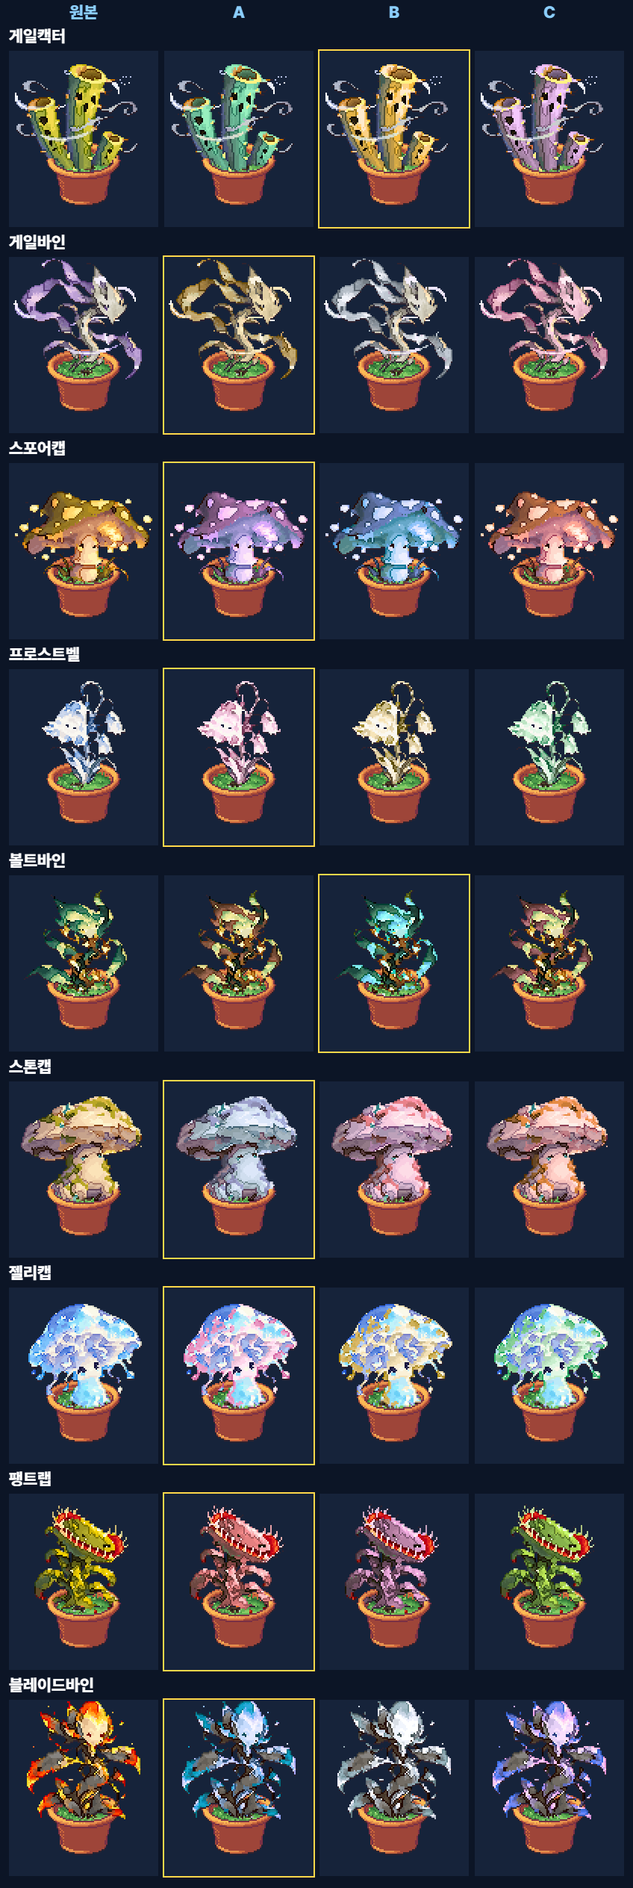
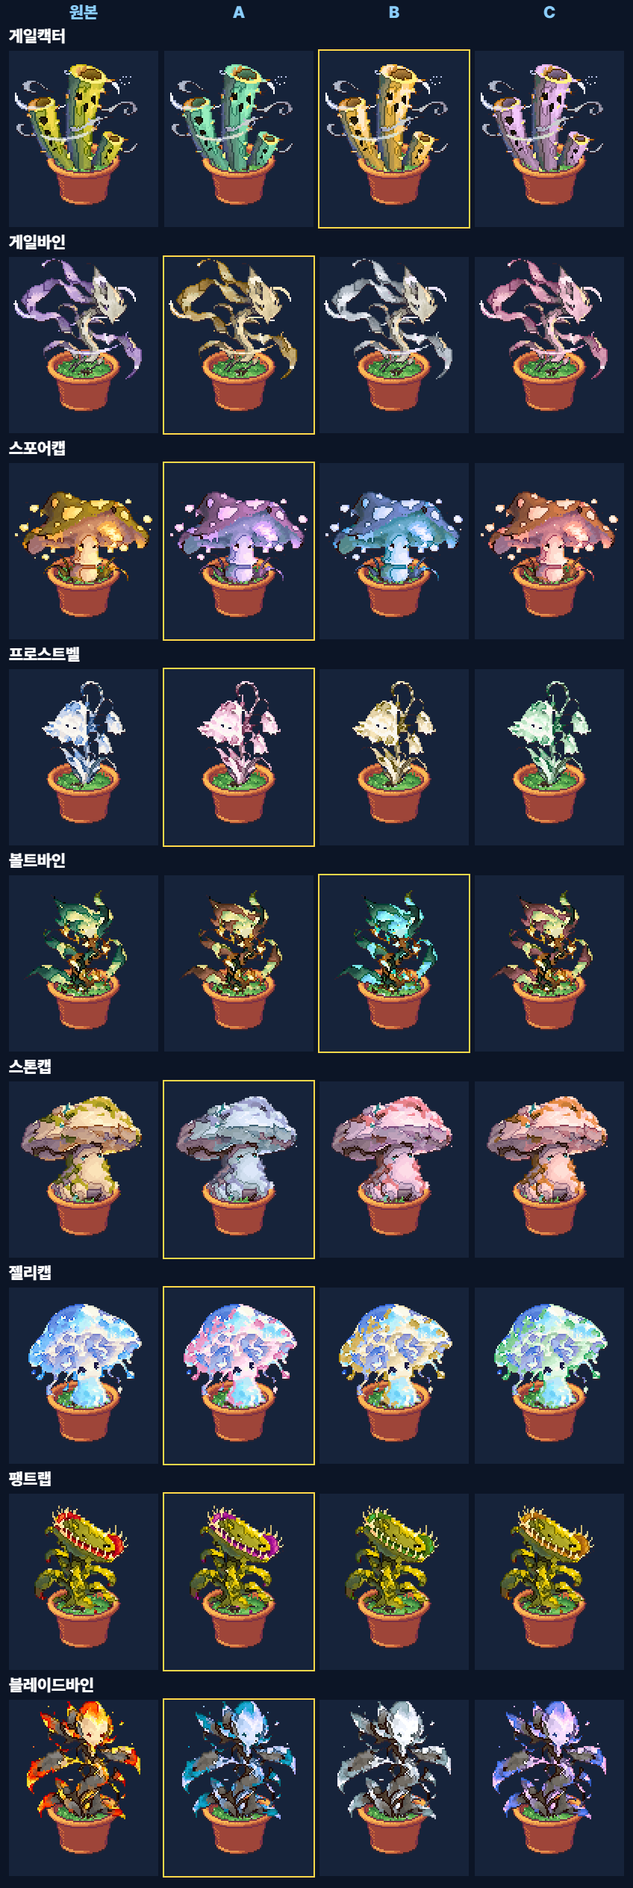
feat: 색 변종 열한 종을 한 부분만 · 차분하게 · 초롱바인 등불 빨강이 위로
- 엠버캑터 불꽃 · 가이아록 결정 · 팽트랩 입 · 드레이크캑터 배 · 탈바인 탈 · 초롱바인 서리 · 글라디캑터 깃 · 갑옷 · 바이킹캡 투구 · 갑옷 · 마이너캡 갓 · 볼케이노캡 바위 · 용암 · 단델에어로 목도리만
- 색으로 못 가르는 부분은 위치 조건 box(장마다 식물 둘레 비율 · out) · 최대 채도 cx
- 초롱바인 원래 그림: 등불 천 파랑 ↔ 빨강(fix_lantern.mjs — 성체 · 어린 · 자람 · 작은 그림, 다시 돌려도 됨)
- 시험 tools/test/shiny.mjs 14

Changed region(s): [[0.3066, 0.7812, 0.4599, 0.875], [0.5519, 0.7812, 0.7052, 0.875], [0.7972, 0.7812, 0.9505, 0.875]]

diff --git a/v2/src/art/shinyRules.js b/v2/src/art/shinyRules.js
@@ -8,8 +8,8 @@ export const SHINY_RULES = {
   flower_wind: { pick: 'A', A: [{ h: [275,340], to: 235 }], B: [{ h: [275,340], to: 350, ck: 0.55, dl: 0.08 }], C: [{ h: [275,340], to: 90, dl: 0.17 }] },   // 특징 285~335° 40% · 특징 345~25° 14% · 손 규칙 ABC
   spark: { pick: 'A', A: [{ h: [75,115], to: 255, ck: 0.45, l: [0.6,1.01] }], B: [{ h: [75,115], to: 350, ck: 0.9, l: [0.6,1.01] }], C: [{ h: [75,115], to: 48, l: [0.6,1.01] }] },   // 특징 75~115° 70% · 손 규칙 ABC
   vine_water: { pick: 'A', A: [{ h: [95,182], to: 88, hs: 0.3, dl: 0.04 }], B: [{ h: [95,182], to: 40, hs: 0.3 }], C: [{ h: [195,265], to: 250, ck: 0.2, dl: 0.15 }] },   // 잎 155~175° 30% · 특징 205~265° 30% · 손 규칙 ABC
-  cactus_fire: { pick: 'A', A: [{ h: [0,50], to: 262, ck: 0.85 }], B: [{ h: [0,50], to: 305, ck: 0.85 }], C: [{ h: [0,50], to: 80, dl: 0.17 }] },   // 특징 5~45° 85% · 손 규칙 ABC
-  gaia: { pick: 'A', A: [{ h: [35,115], to: 250, ck: 0.45 }], B: [{ h: [35,115], to: 355, ck: 0.7 }], C: [{ h: [35,115], to: 160, ck: 0.6 }] },   // 특징 35~115° 90% · 손 규칙 ABC
+  cactus_fire: { pick: 'A', A: [{ h: [30,110], to: 250, l: [0.55,1.01], c: 0.08, hs: 0.4, box: [0.22,0.32,0.78,1], out: true, ck: 0.8 }], B: [{ h: [30,110], to: 85, l: [0.55,1.01], c: 0.08, hs: 0.4, box: [0.22,0.32,0.78,1], out: true, ck: 0.3, dl: 0.08 }], C: [{ h: [30,110], to: 300, l: [0.55,1.01], c: 0.08, hs: 0.4, box: [0.22,0.32,0.78,1], out: true, ck: 0.8 }] },   // 특징 5~45° 85% · 손 규칙 ABC
+  gaia: { pick: 'A', A: [{ h: [160,220], to: 300, c: 0.04 }], B: [{ h: [160,220], to: 355, c: 0.04 }], C: [{ h: [160,220], to: 88, c: 0.04, dl: 0.12 }] },   // 특징 35~115° 90% · 손 규칙 ABC
   flower_fire: { pick: 'A', A: [{ h: [5,45], to: 262 }], B: [{ h: [5,45], to: 305 }], C: [{ h: [5,45], to: 92, dl: 0.17 }] },   // 특징 15~35° 54% · 특징 25~105° 44% · 손 규칙 ABC
   cactus_wind: { pick: 'B', A: [{ h: [70,175], to: 168, hs: 0.4, l: [0.24,0.9], ck: 0.7 }], B: [{ h: [70,175], to: 88, hs: 0.4, l: [0.24,0.9], dl: 0.06 }], C: [{ h: [70,175], to: 330, hs: 0.4, l: [0.24,0.9], ck: 0.55 }] },   // 특징 85~125° 51% · 손 규칙 ABC
   vine_wind: { pick: 'A', A: [{ h: [295,325], to: 88, ck: 1 }, { tint: [88,0.06], l: [0.5,0.97], c: 0.05 }], B: [{ h: [275,335], to: 250, ck: 0.2, dl: 0.08 }], C: [{ h: [295,325], to: 355, ck: 1 }, { tint: [355,0.06], l: [0.5,0.97], c: 0.05 }] },   // 특징 295~325° 42% · 흰 몸 40% · 손 규칙 B
@@ -18,24 +18,24 @@ export const SHINY_RULES = {
   volt_vine: { pick: 'B', A: [{ h: [145,192], to: 48, hs: 0.5 }], B: [{ h: [85,140], to: 205, l: [0.68,1.01] }], C: [{ h: [145,192], to: 20 }] },   // 특징 155~185° 37% · 특징 85~145° 38% · 손 규칙 ABC
   stone_cap: { pick: 'A', A: [{ h: [35,115], to: 255, ck: 0.45 }], B: [{ h: [35,115], to: 350, ck: 0.9 }], C: [{ h: [35,115], to: 30 }] },   // 특징 35~115° 77% · 손 규칙 C
   jelly_cap: { pick: 'A', A: [{ h: [235,255], to: 345, ck: 1 }, { tint: [345,0.06], l: [0.5,0.97], c: 0.05 }], B: [{ h: [235,255], to: 88, ck: 1 }, { tint: [88,0.06], l: [0.5,0.97], c: 0.05 }], C: [{ h: [235,255], to: 150, ck: 1 }, { tint: [150,0.06], l: [0.5,0.97], c: 0.05 }] },   // 특징 235~255° 16% · 특징 255~285° 25% · 흰 몸 39%
-  fang_trap: { pick: 'A', A: [{ h: [70,140], to: 20, hs: 0.5, ck: 0.9 }], B: [{ h: [70,140], to: 340, hs: 0.5, ck: 0.6, dl: -0.03 }], C: [{ h: [70,140], to: 128, hs: 0.5 }] },   // 잎 85~135° 77% · 특징 15~35° 12% · 손 규칙 ABC
+  fang_trap: { pick: 'A', A: [{ h: [0,45], to: 330, l: [0.25,0.85], c: 0.08, dl: -0.04 }], B: [{ h: [0,45], to: 125, l: [0.25,0.85], c: 0.08 }], C: [{ h: [0,45], to: 60, l: [0.25,0.85], c: 0.08, dl: 0.05 }] },   // 잎 85~135° 77% · 특징 15~35° 12% · 손 규칙 ABC
   blade_vine: { pick: 'A', A: [{ h: [10,120], to: 250, ck: 0.8 }], B: [{ h: [10,120], to: 250, ck: 0.15, dl: 0.08 }], C: [{ h: [10,120], to: 300, ck: 0.8 }] },   // 특징 15~115° 71% · 손 규칙 ABC
   toxi_cactus: { pick: 'A', A: [{ h: [300,345], to: 92, dl: 0.08 }], B: [{ h: [300,345], to: 0, ck: 0.2, dl: 0.15 }], C: [{ h: [80,160], to: 168, hs: 0.5, ck: 0.7 }] },   // 잎 95~145° 46% · 특징 315~335° 8% · 손 규칙 ABC
   draco_fruit: { pick: 'A', A: [{ h: [195,235], to: 345, ck: 1 }, { tint: [345,0.06], l: [0.5,0.97], c: 0.05 }], B: [{ h: [170,240], to: 290 }, { tint: [290,0.06], l: [0.5,0.97], c: 0.05 }], C: [{ h: [170,240], to: 150 }, { tint: [150,0.05], l: [0.5,0.97], c: 0.05 }] },   // 특징 195~235° 36% · 특징 175~195° 9% · 흰 몸 47% · 손 규칙 BC
   ember_cap: { pick: 'A', A: [{ h: [15,55], to: 262, ck: 1 }], B: [{ h: [15,55], to: 305, ck: 1 }], C: [{ h: [15,55], to: 88, ck: 1 }] },   // 특징 15~55° 57% · 특징 45~115° 41%
-  drake_cactus: { pick: 'A', A: [{ h: [15,55], to: 262, ck: 1 }], B: [{ h: [15,55], to: 305, ck: 1 }], C: [{ h: [5,60], to: 160 }] },   // 특징 15~55° 80% · 손 규칙 C
+  drake_cactus: { pick: 'A', A: [{ h: [35,75], to: 70, l: [0.5,1.01], c: 0.08, ck: 0.2, dl: 0.12 }], B: [{ h: [35,75], to: 230, l: [0.5,1.01], c: 0.08, ck: 0.4, dl: 0.1 }], C: [{ h: [35,75], to: 180, l: [0.5,1.01], c: 0.08, ck: 0.7 }] },   // 특징 15~55° 80% · 손 규칙 ABC
   gat_cap: { pick: 'A', A: [{ tint: [25,0.12], l: [0.24,0.52], c: 0.05 }], B: [{ tint: [258,0.12], l: [0.24,0.52], c: 0.05 }], C: [{ tint: [305,0.12], l: [0.24,0.52], c: 0.05 }] },   // 특징 45~95° 26% · 잎 85~125° 12% · 손 규칙 ABC
-  mask_vine: { pick: 'B', A: [{ h: [50,110], to: 80, ck: 0.25, dl: -0.06 }], B: [{ h: [50,110], to: 25, ck: 0.9 }], C: [{ h: [50,110], to: 92, dl: 0.06 }] },   // 특징 55~105° 79% · 손 규칙 ABC
+  mask_vine: { pick: 'A', A: [{ h: [40,95], to: 67, l: [0.6,1.01], c: 0.03, ck: 0.15, dl: 0.12 }], B: [{ h: [40,95], to: 20, l: [0.6,1.01], c: 0.03, ck: 0.9 }], C: [{ h: [40,95], to: 67, l: [0.6,1.01], c: 0.03, ck: 0.3, dl: -0.22 }] },   // 특징 55~105° 79% · 손 규칙 ABC
   drum_cactus: { pick: 'A', A: [{ h: [55,115], to: 25, l: [0.55,1.01] }], B: [{ h: [55,115], to: 250, ck: 0.2, dl: 0.1, l: [0.55,1.01] }], C: [{ h: [55,115], to: 205, ck: 0.8, l: [0.55,1.01] }] },   // 특징 55~115° 41% · 잎 115~155° 24% · 손 규칙 ABC
-  lantern_vine: { pick: 'A', A: [{ h: [255,275], to: 345, ck: 1 }, { tint: [345,0.06], l: [0.5,0.97], c: 0.05 }], B: [{ h: [255,275], to: 88, ck: 1 }, { tint: [88,0.06], l: [0.5,0.97], c: 0.05 }], C: [{ h: [255,275], to: 150, ck: 1 }, { tint: [150,0.06], l: [0.5,0.97], c: 0.05 }] },   // 특징 255~275° 42% · 특징 5~35° 12% · 흰 몸 38%
+  lantern_vine: { pick: 'A', A: [{ tint: [85,0.05], l: [0.68,0.98], c: 0.07 }], B: [{ tint: [305,0.05], l: [0.68,0.98], c: 0.07 }], C: [{ h: [45,100], to: 72, ck: 0.15, dl: 0.06, l: [0.35,0.9], c: 0.06 }] },   // 특징 245~275° 40% · 특징 5~35° 16% · 흰 몸 38% · 손 규칙 ABC
   jar_cactus: { pick: 'B', A: [{ h: [150,230], to: 25, ck: 1.4 }], B: [{ h: [150,230], to: 220, ck: 0.25, dl: 0.25 }], C: [{ h: [150,230], to: 300, ck: 1.3 }] },   // 특징 35~65° 17% · 특징 195~235° 26% · 손 규칙 ABC
   goblin_cap: { pick: 'B', A: [{ h: [25,105], to: 300, ck: 0.9 }], B: [{ h: [25,105], to: 25 }], C: [{ h: [25,105], to: 65, ck: 0.25, dl: 0.08 }] },   // 특징 25~105° 97% · 손 규칙 BC
   crown_cap: { pick: 'A', A: [{ h: [255,295], to: 88, ck: 1 }, { tint: [88,0.06], l: [0.5,0.97], c: 0.05 }], B: [{ h: [255,295], to: 190, ck: 1 }, { tint: [190,0.06], l: [0.5,0.97], c: 0.05 }], C: [{ h: [255,295], to: 355, ck: 1 }, { tint: [355,0.06], l: [0.5,0.97], c: 0.05 }] },   // 특징 255~295° 39% · 흰 몸 58%
   frost_drake: { pick: 'A', A: [{ h: [195,265], to: 345, ck: 1 }], B: [{ h: [165,260], to: 300 }], C: [{ h: [195,265], to: 150, ck: 1 }] },   // 특징 195~265° 44% · 특징 165~185° 9% · 손 규칙 B
-  gladi_cactus: { pick: 'A', A: [{ h: [25,75], to: 300, ck: 0.9 }], B: [{ h: [25,75], to: 235, ck: 0.9 }], C: [{ h: [25,75], to: 92, dl: 0.08 }] },   // 잎 85~105° 35% · 특징 25~75° 55% · 손 규칙 C
+  gladi_cactus: { pick: 'A', A: [{ h: [0,45], to: 255, l: [0.25,0.62], c: 0.07, box: [0,0,1,0.4] }], B: [{ h: [0,45], to: 22, l: [0.25,0.62], c: 0.07, box: [0,0,1,0.4], ck: 0.12, dl: 0.25 }], C: [{ h: [45,85], to: 65, l: [0.35,0.8], c: 0.05, ck: 0.15, dl: 0.06 }] },   // 잎 85~105° 35% · 특징 25~75° 55% · 손 규칙 ABC
   jangseung_cactus: { pick: 'B', A: [{ h: [35,95], to: 65, ck: 0.25, dl: -0.08 }], B: [{ h: [35,95], to: 25 }], C: [{ h: [35,95], to: 65, ck: 0.25, dl: 0.12 }] },   // 잎 105~125° 37% · 특징 35~95° 48% · 손 규칙 ABC
   astro_cap: { pick: 'A', A: [{ h: [245,275], to: 345, ck: 1 }, { tint: [345,0.06], l: [0.5,0.97], c: 0.05 }], B: [{ h: [245,275], to: 88, ck: 1 }, { tint: [88,0.06], l: [0.5,0.97], c: 0.05 }], C: [{ h: [245,275], to: 150, ck: 1 }, { tint: [150,0.06], l: [0.5,0.97], c: 0.05 }] },   // 특징 245~275° 23% · 흰 몸 70%
-  viking_cap: { pick: 'B', A: [{ h: [245,275], to: 345, ck: 1 }, { tint: [345,0.06], l: [0.5,0.97], c: 0.05 }], B: [{ h: [245,275], to: 88, ck: 1 }, { tint: [88,0.06], l: [0.5,0.97], c: 0.05 }], C: [{ h: [245,275], to: 150, ck: 1 }, { tint: [150,0.06], l: [0.5,0.97], c: 0.05 }] },   // 특징 245~275° 12% · 흰 몸 72%
+  viking_cap: { pick: 'A', A: [{ tint: [65,0.09], l: [0.3,0.8], c: 0.05 }], B: [{ tint: [88,0.12], l: [0.3,0.8], c: 0.05, dl: 0.07 }], C: [{ tint: [250,0.04], l: [0.3,0.8], c: 0.05, dl: -0.05 }] },   // 특징 245~275° 12% · 흰 몸 72% · 손 규칙 ABC
   hyunmu_cap: { pick: 'A', A: [{ h: [205,245], to: 155, ck: 1.4 }], B: [{ h: [205,245], to: 300, ck: 1.4 }], C: [{ h: [205,245], to: 25, ck: 1.4 }] },   // 특징 215~245° 35% · 특징 55~85° 11% · 손 규칙 ABC
   gumiho_bloom: { pick: 'A', A: [{ h: [15,95], to: 55, ck: 0.12, dl: 0.15 }], B: [{ h: [15,95], to: 85, dl: 0.05, ck: 0.9 }], C: [{ h: [15,95], to: 300, ck: 0.8 }] },   // 특징 15~95° 91% · 손 규칙 ABC
   wizard_bell: { pick: 'A', A: [{ h: [272,335], to: 192 }], B: [{ h: [272,335], to: 352 }], C: [{ h: [272,335], to: 245 }] },   // 특징 65~95° 26% · 특징 275~335° 41% · 손 규칙 ABC
@@ -43,8 +43,8 @@ export const SHINY_RULES = {
   diver_vine: { pick: 'A', A: [{ h: [152,198], to: 350, ck: 1.2 }], B: [{ h: [152,198], to: 255, ck: 1.1 }], C: [{ h: [152,198], to: 300, ck: 1.1 }] },   // 잎 135~195° 54% · 잎 95~135° 14% · 손 규칙 ABC
   pirate_cactus: { pick: 'A', A: [{ h: [222,262], to: 25, ck: 1.2 }], B: [{ h: [222,262], to: 300 }], C: [{ h: [222,262], to: 242, ck: 0.15, dl: -0.08 }] },   // 잎 85~145° 54% · 특징 215~265° 21% · 손 규칙 ABC
   ranger_vine: { pick: 'A', A: [{ h: [70,175], to: 88, hs: 0.4, l: [0.24,0.9], dl: 0.04 }], B: [{ h: [70,175], to: 35, hs: 0.4, l: [0.24,0.9] }], C: [{ h: [70,175], to: 150, hs: 0.4, l: [0.24,0.9], dl: -0.06, ck: 0.9 }] },   // 잎 95~145° 89% · 손 규칙 ABC
-  miner_cap: { pick: 'A', A: [{ h: [45,85], to: 300, ck: 0.9 }], B: [{ h: [45,85], to: 235, ck: 0.9 }], C: [{ h: [45,85], to: 355, ck: 1 }] },   // 특징 45~85° 82% · 특징 25~45° 11%
-  volcano_cap: { pick: 'B', A: [{ h: [25,65], to: 300, ck: 0.9 }], B: [{ h: [20,70], to: 240 }], C: [{ h: [20,70], to: 45, ck: 0.2, dl: -0.08 }] },   // 특징 25~65° 83% · 손 규칙 BC
-  dandel_aero: { pick: 'A', A: [{ h: [65,125], to: 255, ck: 0.45 }, { tint: [255,0.06], l: [0.5,0.97], c: 0.05 }], B: [{ h: [65,125], to: 350, ck: 0.9 }, { tint: [350,0.06], l: [0.5,0.97], c: 0.05 }], C: [{ h: [65,125], to: 205, ck: 0.9 }, { tint: [205,0.06], l: [0.5,0.97], c: 0.05 }] },   // 특징 65~125° 57% · 흰 몸 36%
+  miner_cap: { pick: 'A', A: [{ h: [20,100], to: 25, c: 0.04, box: [0,0,1,0.47], ck: 1.1, dl: -0.06 }], B: [{ h: [20,100], to: 60, c: 0.04, box: [0,0,1,0.47], ck: 0.2, dl: 0.08 }], C: [{ h: [20,100], to: 45, c: 0.04, box: [0,0,1,0.47], ck: 0.6, dl: -0.12 }] },   // 특징 45~85° 82% · 특징 25~45° 11% · 손 규칙 ABC
+  volcano_cap: { pick: 'A', A: [{ h: [15,80], to: 47, l: [0.27,0.52], c: 0.02, cx: 0.12, box: [0,0,1,0.62], ck: 0.2, dl: 0.12 }], B: [{ h: [0,45], to: 85, l: [0.45,0.8], c: 0.14, ck: 0.7, dl: 0.1 }], C: [{ h: [15,80], to: 47, l: [0.27,0.52], c: 0.02, cx: 0.12, box: [0,0,1,0.62], ck: 0.3, dl: -0.1 }] },   // 특징 25~65° 83% · 손 규칙 ABC
+  dandel_aero: { pick: 'A', A: [{ h: [75,100], to: 25, l: [0.65,0.97], c: 0.1, dl: -0.15 }], B: [{ h: [75,100], to: 235, l: [0.65,0.97], c: 0.1 }], C: [{ h: [75,100], to: 305, l: [0.65,0.97], c: 0.1, ck: 0.8, dl: -0.08 }] },   // 특징 65~125° 57% · 흰 몸 36% · 손 규칙 ABC
   snow_ballet: { pick: 'A', A: [{ h: [265,295], to: 88, ck: 1 }, { tint: [88,0.06], l: [0.5,0.97], c: 0.05 }], B: [{ h: [265,295], to: 190, ck: 1 }, { tint: [190,0.06], l: [0.5,0.97], c: 0.05 }], C: [{ h: [265,295], to: 355, ck: 1 }, { tint: [355,0.06], l: [0.5,0.97], c: 0.05 }] },   // 특징 265~295° 52% · 흰 몸 46%
 };

diff --git a/v2/src/art/shinyColor.js b/v2/src/art/shinyColor.js
@@ -26,10 +26,13 @@ export function fromLch(L, C, H) {
 export const inHue = (h, [h0, h1]) => (h0 <= h1 ? h >= h0 && h <= h1 : h >= h0 || h <= h1);
 const midOf = ([h0, h1]) => (h0 + ((h1 - h0 + 360) % 360) / 2) % 360;
 // 한 색 바꾸기(바뀌지 않으면 null) — 아주 어두운 칸(테두리 · 눈동자)은 그대로
-export function shinyColor(r, g, b, rule) {
+//  bits = 위치 조건(box)이 있는 띠마다 이 칸이 그 안이면 1(띠 번호 자리) · null = 위치를 모름 → box 띠는 건너뜀
+export function shinyColor(r, g, b, rule, bits = null) {
   const [L, C, H] = toLch(r, g, b);
   if (L < 0.24) return null;
-  for (const t of rule) {
+  for (let k = 0; k < rule.length; k++) {
+    const t = rule[k];
+    if (t.box) { if (bits == null) continue; const inside = (bits >> k) & 1; if (t.out ? inside : !inside) continue; }
     const [l0, l1] = t.l || [0.24, 1.01];
     if (L < l0 || L > l1) continue;
     if (t.tint) {
@@ -37,14 +40,17 @@ export function shinyColor(r, g, b, rule) {
       const k = Math.min(1, (L - l0) / 0.15) * Math.min(1, (l1 - L) / 0.06 + 0.35);   // 띠 끝은 살살(흰 반짝임은 덜 물듦)
       return fromLch(L + (t.dl || 0), Math.max(C, t.tint[1] * k), t.tint[0]);
     }
-    if (C < (t.c ?? 0.04) || !inHue(H, t.h)) continue;
+    if (C < (t.c ?? 0.04) || (t.cx != null && C > t.cx) || !inHue(H, t.h)) continue;   // cx = 최대 채도(진한 색은 빼기 — 초롱바인 등불 천)
     const d = ((H - midOf(t.h) + 540) % 360) - 180;   // 띠 가운데에서 떨어진 색상(−180~180)
     return fromLch(L + (t.dl || 0), C * (t.ck ?? 1), (t.to + d * (t.hs ?? 1) + 720) % 360);   // hs = 색상 퍼짐 배수(0.3 = 띠 안 색을 목표 색 가까이로 모음 — 단풍처럼 고르게)
   }
   return null;
 }
 // 그림 칸 바꾸기(제자리) — keep = 그대로 둘 색(눈) · skip(r, g, b) = 그대로 둘 색인지(흙 덮기 무늬 — 화분 · 잔디 처리가 흙 색으로 찾음) · 같은 색은 한 번만 계산
-export function recolorData(data, rule, keep = null, skip = null) {
+//  geom = { W: 그림 폭, w, h, cols, rows } — 띠에 box([x0, y0, x1, y1] = 그 장 식물 둘레 안 비율, out = 그 밖)가 있으면 장마다 식물 둘레를 재서 그 안에만
+//  (마이너캡 갓처럼 몸통과 색이 같아 색으로는 못 가르는 부분 — 숨쉬기로 움직여도 장마다 다시 재므로 따라감, 2026-10-22)
+export function recolorData(data, rule, keep = null, skip = null, geom = null) {
+  if (geom && rule.some(t => t.box)) return recolorBoxed(data, rule, keep, skip, geom);
   const memo = new Map();
   for (let i = 0; i < data.length; i += 4) {
     if (data[i + 3] < 8) continue;
@@ -53,6 +59,27 @@ export function recolorData(data, rule, keep = null, skip = null) {
     let v = memo.get(key);
     if (v === undefined) { v = skip && skip(data[i], data[i + 1], data[i + 2]) ? null : shinyColor(data[i], data[i + 1], data[i + 2], rule); memo.set(key, v); }
     if (v) { data[i] = v[0]; data[i + 1] = v[1]; data[i + 2] = v[2]; }
+  }
+}
+function recolorBoxed(data, rule, keep, skip, { W, w, h, cols, rows }) {
+  const memo = new Map(), at = (ox, oy, L, x, y) => ((oy + L * rows * h + y) * W + ox + x) * 4;
+  for (let c = 0; c < cols * rows; c++) {
+    const ox = (c % cols) * w, oy = Math.floor(c / cols) * h;
+    let l = w, t = h, r = -1, b = -1;   // 이 장(앞뒤 두 층)의 식물 둘레
+    for (const L of [0, 1]) for (let y = 0; y < h; y++) for (let x = 0; x < w; x++) if (data[at(ox, oy, L, x, y) + 3] >= 128) { if (x < l) l = x; if (x > r) r = x; if (y < t) t = y; if (y > b) b = y; }
+    if (r < 0) continue;
+    for (const L of [0, 1]) for (let y = 0; y < h; y++) for (let x = 0; x < w; x++) {
+      const i = at(ox, oy, L, x, y); if (data[i + 3] < 8) continue;
+      const key = (data[i] << 16) | (data[i + 1] << 8) | data[i + 2];
+      if (keep && keep.has(key)) continue;
+      const fx = (x - l) / Math.max(1, r - l), fy = (y - t) / Math.max(1, b - t);
+      let bits = 0;
+      for (let k = 0; k < rule.length; k++) { const B = rule[k].box; if (B && fx >= B[0] && fx <= B[2] && fy >= B[1] && fy <= B[3]) bits |= 1 << k; }
+      const mk = key * 64 + bits;
+      let v = memo.get(mk);
+      if (v === undefined) { v = skip && skip(data[i], data[i + 1], data[i + 2]) ? null : shinyColor(data[i], data[i + 1], data[i + 2], rule, bits); memo.set(mk, v); }
+      if (v) { data[i] = v[0]; data[i + 1] = v[1]; data[i + 2] = v[2]; }
+    }
   }
 }
 // 눈 색: 깜빡임 장(blinkIndex~+3)과 같은 자세 대기 장(blinkAt~+3)에서 달라지는 칸 = 눈 — 그 색들 중 눈에서 주로 쓰이는 것(눈 밖보다 눈 안에 더 많음)

diff --git a/v2/src/art/shiny.js b/v2/src/art/shiny.js
@@ -8,13 +8,14 @@ export const speciesOf = key => String(key).replace(/~s.*$/, '').replace(/_(youn
 export const shinyRule = (key, v) => { const S = SHINY_RULES[speciesOf(key)]; return S ? S[v || S.pick] || null : null; };
 // 그림 키를 [원래 키, 후보] 로(색 변종이 아니면 null)
 export function shinyKey(key) { const i = typeof key === 'string' ? key.indexOf('~s') : -1; return i < 0 ? null : [key.slice(0, i), key.slice(i + 2) || null]; }
-// img = 시트(meta 가 있으면 깜빡임 장으로 눈 색을 찾음) 또는 작은 그림(eye = 그 종 시트에서 찾은 눈 색)
+// img = 시트(meta 가 있으면 깜빡임 장으로 눈 색을 찾음) 또는 작은 그림(eye = 그 종 시트에서 찾은 눈 색 · 48×56 두 층)
 export function shinyCanvas(img, key, v, meta = null, eye = null) {
   const rule = shinyRule(key, v); if (!rule) return null;
   const w = img.naturalWidth || img.width, h = img.naturalHeight || img.height, c = document.createElement('canvas'); c.width = w; c.height = h;
   const x = c.getContext('2d', { willReadFrequently: true }); x.drawImage(img, 0, 0);
   const d = x.getImageData(0, 0, w, h), keep = eye || (meta ? eyeKeep(d.data, w, meta) : null);
-  recolorData(d.data, rule, keep, soilish);
+  const geom = meta ? { W: w, w: meta.w, h: meta.h, cols: meta.cols, rows: meta.rows } : { W: w, w, h: h >> 1, cols: 1, rows: 1 };   // 장마다 식물 둘레(띠의 box 조건)
+  recolorData(d.data, rule, keep, soilish, geom);
   x.putImageData(d, 0, 0);
   c.eye = keep;
   return c;

diff --git a/docs/superpowers/specs/2026-10-16-v2-mvp-design.md b/docs/superpowers/specs/2026-10-16-v2-mvp-design.md
@@ -10,7 +10,7 @@
 - **10-22 아침:** 사용자 결정 = 카드는 끼운 식물에 귀속(CHANGELOG 191 — 가져오기 뺌, 일반 식물도 패시브 보관 셋, 보관에서 버리기 = 팔 값). 사용자 ‘올릴 때 버그나 데이터 손실이 없도록’ → 올리기 전 안전 점검(192 — `tools/test/prodcheck.mjs`로 친구 서버 저장 백업 + 새 코드로 계정마다 미리 돌려 보기 = 문제 없음, `SAVE_VER` 2로 올린 뒤 원본 자동 보관, 되돌리기 판 `f4b9fc9b`). **사용자 ‘안전 점검대로 친구 서버에 올려’ → 올림(CHANGELOG 193, 판 `4c2dabdd`).**
 - **10-22 올린 뒤(오후에 함께 올림 — CHANGELOG 201):** 바람 다시(CHANGELOG 194 초승달 줄기 · 195 언덕 타기 + 롤러코스터 고리 — 사용자 ‘너무 일자로 빙빙돌아’ → ‘좀더 꿀렁하게 웨이브를 타는 느낌 · 롤로코스터처럼 한바퀴’) · 배너 = 프로필 홀로그램 창 디자인 열둘(196 — 사용자 정정 ‘아이콘의 테두리가 아니야. 홀로그램창의 디자인을 배너라고 말한거야’, 188의 색 띠 · 아이콘 테 방식은 버림) · 종자 가방 = 카드 · 정렬(197). 시험 전부 통과.
 - **10-22 낮(오후에 함께 올림):** 종자 · 상점 물건 그림 = 코덱스 디자인(종자는 식물마다 다른 마흔다섯 · 속성 대신 그림 일곱 · 물건 아홉) · 별에 따른 종자 차이(빛 효과 + 값 별 하나 +25%) · 종자 가방 = 단추 없는 카드 · 누르면 펼침 · 꾹 고르기 여러 개 팔기(`sellSeeds`) · 특별 표시는 그림을 가리지 않게(CHANGELOG 198). 사용자가 ‘그 외 대충 그린 아이콘 중 바꿀 것 추천’ 요청 → 추천 일곱 묶음 → ‘전부해봐’ → 하단 탭 · 홈 단추 · 돈 · 보석 · 속성 · 종류 · 능력치 · 전투 상태 열여덟 · 레벨업 상자(뚜껑이 들리는 코덱스 상자) · 탐사 행성 열하나 + 물건 그림 재활용(물 · 비료 단추 · 결과 보상 · 연료 · 카드 꾸러미)을 코덱스 디자인 도트로(CHANGELOG 199 — 11칸으로 줄이면 뭉개지는 여섯은 1배 자리만 손그림 유지). 이어서 사용자 ‘아이콘 비슷한게 있는데 … 엑셀로 작업중인 변경될 예정인걸 기준으로’ → 효과 아이콘을 엑셀 v10 효과 하나에 하나로 다시(CHANGELOG 200 · 짝 표 `specs/2026-10-22-v2-effect-icons.md` — 능력치 강화 · 약화 = 능력치 아이콘 + 화살표, 이름은 엑셀 적용 때 바꿈).
-- **10-22 늦은 오후(아직 안 올림):** 사용자 ‘다음 작업 뭐 있을까 스킬 구상 말고’ → 남은 일 목록(색 변종 · 3:3 햇빛 · 접목 카드 · 눈 다시 · 얼굴 사진 · 영양제 · 공지 팝업 · 순위표 등)을 드림 → ‘색 변종 그림부터’ → 몸 색이 진짜로 바뀜(CHANGELOG 202 — 종마다 후보 A · B · C, 클로드 추천을 넣어 둠). 사용자가 검토판(`tools/pixel/big/out/shiny/board_1~5.png`)에서 종마다 고르면 `tools/pixel/big/shiny.mjs PICK`만 바꿈. 확률(1/64 → 1/500쯤)은 확인 전. 이어서 사용자 ‘페탈로즈 c의 풀색이 너무 징그러워 · 자연스러운 부분에 자연스럽게 · 쨍하게 전체색이 바뀐게 어색해’ → 잎은 자연에 있는 색만 · 꽃 · 갓 · 옷처럼 자연스러운 부분 위주 · 채도 낮춤으로 다시(CHANGELOG 203).
+- **10-22 늦은 오후(아직 안 올림):** 사용자 ‘다음 작업 뭐 있을까 스킬 구상 말고’ → 남은 일 목록(색 변종 · 3:3 햇빛 · 접목 카드 · 눈 다시 · 얼굴 사진 · 영양제 · 공지 팝업 · 순위표 등)을 드림 → ‘색 변종 그림부터’ → 몸 색이 진짜로 바뀜(CHANGELOG 202 — 종마다 후보 A · B · C, 클로드 추천을 넣어 둠). 사용자가 검토판(`tools/pixel/big/out/shiny/board_1~5.png`)에서 종마다 고르면 `tools/pixel/big/shiny.mjs PICK`만 바꿈. 확률(1/64 → 1/500쯤)은 확인 전. 이어서 사용자 ‘페탈로즈 c의 풀색이 너무 징그러워 · 자연스러운 부분에 자연스럽게 · 쨍하게 전체색이 바뀐게 어색해’ → 잎은 자연에 있는 색만 · 꽃 · 갓 · 옷처럼 자연스러운 부분 위주 · 채도 낮춤으로 다시(CHANGELOG 203). 다시 열한 종 지적(‘몸 전체를 덮거나 · 너무 쨍하거나 · 색이 안 어울리는’) → 한 부분만(불꽃 · 결정 · 입 · 배 · 탈 · 깃 · 투구 · 갑옷 · 갓 · 목도리) + 위치 조건 box · 초롱바인 원래 그림 등불을 빨강이 위로(CHANGELOG 204 — 다시 내보내면 `fix_lantern.mjs`).
 - **다음:** 10-22 오후 사용자 ‘ㄱㄱ’로 위 묶음(194~200)을 친구 서버에 올림(CHANGELOG 201 — 판 `36180eb2` · 되돌리기 `4c2dabdd` · 저장 판 번호 3). 그다음 친구들이 새 판으로 놀아 본 반응 · 플레이 기록(`node server/report.mjs --url https://pulloseum.getchat.workers.dev`)으로 랭크 속도 · 카드 귀속 · 경제를 확인 → 아래 이전 맥락의 종 핑퐁(프로스트벨 초안 검토 → 14번 볼트바인).
 - **미결(검토):** 변이 패시브도 강화할지 · 랭크 속도(어림 풀로세움까지 350판) · 배너 열둘의 해금 레벨(오로라 3 · 별빛 5 · 성운 8 · 잎맥 10 · 물결 15 · 회로 20 · 황금 25 · 풀로세움 30) · 바람 모양(검토 영상 `tools/pixel/big/out/conv/<키>_idle.mp4`).
 

diff --git a/.claude/skills/plant-sprite/SKILL.md b/.claude/skills/plant-sprite/SKILL.md
@@ -54,6 +54,8 @@ node tools/pixel/big/stemcheck.mjs [키…]               # 게임 묶음(어린
 - **흙에 앉히기 · 흙 경계(2026-10-17 사용자 "불꽃 선인장이 중앙이 아닌 좀 뒤쪽" · "식물과 흙의 경계가 너무 일자가 되지 않게"):** 굵은 밑동은 아래 끝이 흙 가운데 줄에 걸치면 뒤에 박힌 듯 보임 → `convert.mjs SINK`(판 칸, 밑동 반폭 × 흙 타원 납작함 × 0.75, 최대 5 — 새 그림 · 단계는 SINK를 비운 묶음에서 `node tools/pixel/big/sinkcalib.mjs <키>`로 재서 적음, 꼬리 · 다리가 테에 걸치면 덜). 흙 덮기(`potblend.mjs soilCover`)는 줄기 기둥에서 밑동 둘레 앞쪽 호를 따라 울퉁불퉁 · 흙 속 칸은 앞판 앞에 안 그림. 손으로 옮기기 = `STEM`(가로) · 돌리기 = `ROT`(도, + = 시계 반대). 검수 = 화분 격자(scratchpad pot_grid 방식 — 성체 · 자람 · 어린).
 - **화분 앞 부위(2026-10-17 사용자 "바위 선인장의 손은 어색하게 화분에 붙어 있어 — 신체별로 화분 밖에 손을 꺼내 놓는 느낌으로, 화분과 신체 중 어디를 나오게 할지 구분" · "나중에 크고 멋있는 식물은 다양하게 연출"):** 손 · 꼬리 · 날개 끝처럼 화분 밖으로 내놓을 부위는 `convert.mjs FRONT[출력 키]`에 원화 좌표 다각형으로 적는다(단계 그림은 그 단계 원화 좌표 — 원화에 50칸 격자를 그려 잼). 그 칸은 늘 앞판 앞(over) · 흙으로 안 덮음. 몸통은 `SINK`를 더 줘(가이아록 4 → 8) 앞 부위가 테 너머로 걸쳐 내려오게. 시험 = `SINK_TEST='{"키":n}' node tools/pixel/big/convert.mjs --stages <키>`(배치 · 흙 덮기 · json 모두 그 값), 검토판 '화분 밖 아래'에서 앞 부위 칸은 따로 셈. 움직임 장에서 경계가 잘리지 않는지 `--anim` 첫 장과 가장 다른 장을 확대 비교.
 - `node tools/pixel/big/convert.mjs --export <키…>` → `assets/v2/plants/<키>.png·.json`(대기 64장 + 깜빡임 4장 × under·over 두 층) + `assets/v2/pots/`. 게임은 `v2/src/art/sprites.js drawBig(g, 키, 화분, 굽x, 굽y, {t, flip, flash})`로 화분 뒤 → under → 화분 앞 → over.
+  - ⚠ 초롱바인(`lantern_vine`)을 다시 내보내면(`--export` · `--stages` · `small.mjs`) 꼭 `node tools/pixel/big/fix_lantern.mjs` — 원화 등불이 청사초롱처럼 파랑이 위라, 내보낸 그림에서 태극처럼 빨강이 위로 맞바꿈(2026-10-22 사용자 "빨강이 위야"). 다시 돌려도 됨(이미 빨강이 위면 건너뜀).
+  - 새 종을 넣으면 색 변종 후보도: `node tools/pixel/big/shiny.mjs auto`(그 종만 새로 뽑힘) → `node tools/shots/shinyboard.mjs <키>`로 보고 `shiny.mjs HAND`(자연스러운 부분만 · 잎은 자연 색만)로 다듬기.
   - 묶은 뒤 깜빡임 장이 실제로 감기는지 잰다(깜빡임 장 = 같은 자세 대기 장과 눈 칸이 달라야 함 — 2026-10-17 전엔 `--export`가 눈 자리를 안 잡아 모든 종이 게임에서 안 감겼고 숨쉬기 머리 자리도 검토 영상과 달랐음).
   - 아주 작은 눈이 불 재질 · 이음매에 걸려 움직임 장마다 반짝임이 빠졌다 생기면(드레이크캑터 금빛 눈) `TUNE[키].eyeHold = true` — 눈 둘레는 쉬는 그림을 얼굴 이동만큼 통째로 옮김. 밝은 무늬(`accent`)는 눈 둘레를 저절로 뺌.
   - 서리 털 · 잔 결처럼 한 칸보다 잘게 갈라진 질감이 밝고 어두운 점으로 튀면 `TUNE[키].soft = 4~7`(원화를 줄이기 전에 몸 칸끼리 상자 흐림 — 바이킹캡 7 · 구미호블룸 5, 2026-10-17). 외딴 칸 정리는 아주 밝거나 어두운 재질(눈 · 반짝임 보호)을 건너뛰어 이런 점은 남음. 얼굴이 작아 눈이 결에 묻히면 `eyeDark`를 같이.

diff --git a/docs/v2-development-reference.md b/docs/v2-development-reference.md
@@ -8,7 +8,7 @@
 
 - 🧩 **아이콘 · 물건 · 종자 그림 = 코덱스 디자인 → 작은 도트(2026-10-22 사용자 ‘전부해봐’):** 원화는 회색 배경 한 장에 넷(`tools/pixel/big/concept/icons2/` · `concept/items/`), 변환 = `node tools/pixel/big/icons.mjs [이름…]`(아이콘 · 레벨업 상자 · 탐사 행성 → `assets/v2/icons/`) · `items.mjs`(종자 · 물건 → `assets/v2/items/`), 둘 다 `greycut.mjs` 누끼 → `itemconv.mjs`(OKLab 팔레트 · 칸 최빈 색 · 먹선, 여러 그림을 같은 틀에 맞출 땐 `--box`). 게임은 `art/icons.js`의 `icon(이름)`이 그림을 먼저 돌려줌 — 손그림과 같은 크기(11칸 · 탭 15칸)라 자리 그대로, 2배로 그리던 자리는 `<이름>_b`(22 · 30칸)를 저절로(`gfx.js img`), 하단 탭 띠 = `_n` 22칸. 줄이면 뭉개지는 것은 `SMALL_KEEP`(1배 자리만 손그림), 새 이름은 그림이 없으면 `ALIAS`. 새 아이콘 = 요청서에 한 칸 + `icons.mjs SHEETS` + `ART_ICONS`. **효과 아이콘은 효과 · 스킬 분류 엑셀의 효과 하나에 하나**(짝 표 `docs/superpowers/specs/2026-10-22-v2-effect-icons.md` — 엑셀이 바뀌면 같이 고침, 속성 · 종류 · 능력치 아이콘을 효과에 빌려 쓰지 말 것, 능력치 강화 · 약화 = `fxStat` 능력치 아이콘 + 화살표, 검토판 `?scene=fxlab`). 조각이 떨어진 그림은 `icons.mjs PARTS`(누끼에서 큰 덩어리만 남기지 않음). 레벨업 상자 = 몸통(열린 그림) + 뚜껑(닫힌 그림의 이음매 `SEAM` 위) 같은 틀 64×54.
 
-- 🌈 **색 변종(이로치) 그림(2026-10-22):** 그림을 따로 두지 않고 게임이 처음 그릴 때 색을 바꿔 굽는다(`art/shiny.js` · 공용 `art/shinyColor.js` — OKLCH 색 무리의 색상만 돌림, 눈 = 깜빡임 장 비교 · 흙 덮기 색은 그대로). 규칙 = `art/shinyRules.js`(종마다 후보 A · B · C + pick — `tools/pixel/big/shiny.mjs auto`가 뽑고 손 규칙 `HAND` · 추천 `PICK`, 사용자가 고르면 `PICK`만 바꾸고 `auto --force`). 그림 키 꼬리 `~s` = 그 식물의 색 변종 — **식물을 그리는 새 화면은 `bigKey(키, 단계, p.shiny)`나 `키 + '~s'`로 넘기고, 큰 판을 읽을 땐 `BIG[키]` 대신 `bigOf(키)`**. 새 종을 넣으면 `shiny.mjs auto`(그 종만 새로 뽑힘) → 검토판 `node tools/shots/shinyboard.mjs <키>`.
+- 🌈 **색 변종(이로치) 그림(2026-10-22):** 그림을 따로 두지 않고 게임이 처음 그릴 때 색을 바꿔 굽는다(`art/shiny.js` · 공용 `art/shinyColor.js` — OKLCH 색 무리의 색상만 돌림, 눈 = 깜빡임 장 비교 · 흙 덮기 색은 그대로). 규칙 = `art/shinyRules.js`(종마다 후보 A · B · C + pick — `tools/pixel/big/shiny.mjs auto`가 뽑고 손 규칙 `HAND` · 추천 `PICK`, 사용자가 고르면 `PICK`만 바꾸고 `auto --force`). 그림 키 꼬리 `~s` = 그 식물의 색 변종 — **식물을 그리는 새 화면은 `bigKey(키, 단계, p.shiny)`나 `키 + '~s'`로 넘기고, 큰 판을 읽을 땐 `BIG[키]` 대신 `bigOf(키)`**. 새 종을 넣으면 `shiny.mjs auto`(그 종만 새로 뽑힘) → 검토판 `node tools/shots/shinyboard.mjs <키>`. **사용자 기준(2026-10-22 두 번 교정): 잎 · 줄기는 자연에 있는 색만, 몸 전체를 쨍하게 바꾸지 말고 꽃 · 갓 · 불꽃 · 탈 · 갑옷 · 목도리처럼 한 부분만.** 색으로 못 가르는 부분은 띠의 위치 조건 `box`(그 장 식물 둘레 안 비율 · `out` = 밖)와 최대 채도 `cx` — 부분 띠 확인은 색 조건 칸을 그림 위에 칠해 봄.
 
 ## 2. 서버·저장·로그인·검증
 

diff --git a/docs/CHANGELOG.md b/docs/CHANGELOG.md
@@ -2,6 +2,14 @@
 
 > CLAUDE.md에서 분리한 전체 개발 로그. 최신 작업이 맨 위. 과거 맥락이 필요할 때만 읽으세요.
 
+### 2026-10-22 (204) — 색 변종 열한 종 다시(몸 전체 대신 한 부분만 · 차분하게) · 초롱바인 등불 빨강이 위로
+
+- 사용자 ‘엠버캑터, 가이아룩, 팽트랩, 드레이크캑터, 탈바인, 초롱바인(얘 태극 제대로 그려 기본판. 빨강이 위야. 이외에 다른 변이도 이상), 글라디캑터, 바이킹캡(얘는 갑옷이랑 쿠기만 바꾸자. 몸은 다 같거나 비슷하게), 마이너캡, 볼케이노캡, 단델에어로 별로야. 색이 몸 전체를 덮거나 덮었음에도 너무 쨍하거나 색이 안 어울리는 경우야 바꿔봐’(‘쿠기’ = 투구로 읽음).
+- **바꾸는 곳을 그 종의 한 부분으로:** 엠버캑터 머리 · 팔 끝 불꽃(파랑 · 하얗게 단 · 보라) · 가이아록 머리 위 결정(자수정 · 루비 · 황수정) · 팽트랩 입 테두리(자줏빛 · 초록 · 주황) · 드레이크캑터 배 줄무늬(상아 · 얼음빛 · 청록) · 탈바인 탈(흰 · 붉은 · 검게 옻칠한) · 초롱바인 덩굴 서리(상아 · 연보라 · 금테 → 은테 — 등불 천 = 태극 색은 안 바꿈) · 글라디캑터 투구 깃(파랑 · 흰) · 갑옷(강철) · 바이킹캡 투구 · 갑옷 회색 돌판(청동 · 금 · 무쇠 — 연한 몸 · 뿔은 그대로) · 마이너캡 갓(붉은 · 흰 · 짙은 밤색) · 볼케이노캡 갓 바위(잿빛 · 흑요석) · 용암 줄(하얗게 단) · 단델에어로 목도리(빨강 · 하늘 · 보라). 추천은 모두 A.
+- **색으로 못 가르는 부분은 위치로:** 띠에 `box`(그 장 식물 둘레 안 비율 · `out` = 그 밖)와 `cx`(최대 채도)를 더함(`art/shinyColor.js recolorBoxed` — 장마다 식물 둘레를 다시 재서 숨쉬기 · 생장 단계에도 따라감). 마이너캡 갓 = 위 47% · 엠버캑터 = 몸 가운데(빛나는 배)를 뺀 불꽃(가운데까지 바꾸면 얼룩처럼 보였음) · 글라디캑터 깃 = 위 40%(몸의 끈까지 번졌음) · 볼케이노캡 바위 = 위 62%.
+- **초롱바인 원래 그림:** 원화가 청사초롱처럼 파랑이 위 → 등불 천의 파랑 ↔ 빨강 색상을 맞바꿈(`tools/pixel/big/fix_lantern.mjs` — 성체 · 어린 · 자람 각 68장 두 층 + 작은 그림, 서리 무늬 · 금테 · 술은 그대로, 이미 빨강이 위인 장은 건너뛰어 다시 돌려도 됨). 처음엔 등불 위로 넓게 잡아 매단 덩굴의 파란 그늘까지 들어갔고, 술 끝 파랑을 아래 반쪽으로 잘못 봐 빠진 장이 있었음 → 빨강 반쪽 바로 위로 이어지는 넓은 파랑 줄만. ⚠ 초롱바인을 `convert.mjs --export` · `small.mjs`로 다시 내보내면 이 스크립트를 다시 돌릴 것(plant-sprite 스킬 §6에 적음).
+- 검토판 `tools/pixel/big/out/shiny/board_1~5.png` · 시험 `tools/test/shiny.mjs` 14(위치 조건 셋 더함).
+
 ### 2026-10-22 (203) — 색 변종 후보를 자연스러운 색으로 다시(잎은 자연에 있는 색만 · 쨍한 몸 전체 바꿈 줄임)
 
 - 사용자 ‘페탈로즈 c의 풀색이 너무 징그러워. 지금 보면 아무색이나 넣은 거 같은데 자연스러운 부분에 자연스럽게 넣어줄 수 있나? 자연스러운 것도 많은데 쨍하게 전체색이 바뀐게 어색해’.
